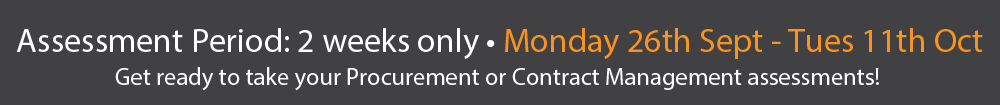
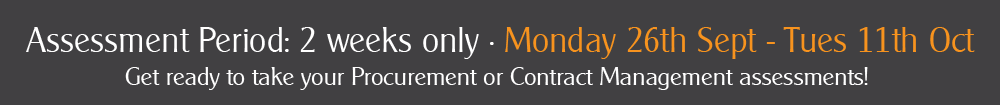
changes

Changed region(s): [[0.0, 0.2571, 0.992, 0.5714], [0.093, 0.6286, 0.899, 0.8571]]

diff --git a/SGA/Styles/style.css b/SGA/Styles/style.css
@@ -70,6 +70,7 @@ input, textarea, select {
     padding: 1px;
     border: 1px solid #9b9b9b;
     outline: none;
+
 }
 
 button, input, select, textarea {
@@ -702,7 +703,7 @@ a#more-info-mob {
         .banner-inner-pke .banner-cnt .banner-heading {
             font-family: 'cleargothic-mediumregular', Arial, Helvetica, sans-serif;
             font-size: 38px;
-            line-height: 50px;
+            line-height: 40px;
             color: #231f20;
             margin: 0 0 10px 30px;
             padding-top: 10px;
@@ -727,7 +728,7 @@ a#more-info-mob {
         }
 
 .banner-inner-pke > div:after {
- content:url(../innerimages/icon-score.png);
+ content:url(../innerimages/icon-timed-task.png);
  position: absolute;
         left: 20px;
         bottom: 20px;
@@ -909,7 +910,7 @@ ol.list1 {
         .banner-inner-ssa .banner-cnt .banner-heading {
             font-family: 'cleargothic-mediumregular', Arial, Helvetica, sans-serif;
             font-size: 38px;
-            line-height: 50px;
+            line-height: 40px;
             color: #231f20;
             margin: 0 0 10px 30px;
             padding-top: 10px;
@@ -934,7 +935,7 @@ ol.list1 {
         }
 
     .banner-inner-ssa > div:after {
-        content: url(../innerimages/icon-graf.png);
+        content: url(../innerimages/img-skills-self-assessment.gif);
         position: absolute;
         left: 20px;
         bottom: 20px;
@@ -954,7 +955,7 @@ ol.list1 {
         .banner-inner-cke .banner-cnt .banner-heading {
             font-family: 'cleargothic-mediumregular', Arial, Helvetica, sans-serif;
             font-size: 38px;
-            line-height: 50px;
+            line-height: 40px;
             color: #231f20;
             margin: 0 0 10px 30px;
             padding-top: 10px;
@@ -999,7 +1000,7 @@ ol.list1 {
         .banner-inner-caa .banner-cnt .banner-heading {
             font-family: 'cleargothic-mediumregular', Arial, Helvetica, sans-serif;
             font-size: 38px;
-            line-height: 50px;
+            line-height: 40px;
             color: #231f20;
             margin: 0 0 10px 30px;
             padding-top: 10px;
@@ -1025,7 +1026,7 @@ ol.list1 {
 
         
  .banner-inner-caa > div:after {
-        content: url(../innerimages/icon-bulb.png);
+        content: url(../innerimages/img-behavioural-assessment.gif);
         position: absolute;
         left: 20px;
         bottom: 20px;
@@ -1278,7 +1279,7 @@ ol.list1 {
         .banner-inner-cma .banner-cnt .banner-heading {
             font-family: 'cleargothic-mediumregular', Arial, Helvetica, sans-serif;
             font-size: 38px;
-            line-height: 50px;
+            line-height: 40px;
             color: #231f20;
             margin: 0 0 10px 30px;
             padding-top: 10px;

diff --git a/SGA/controls/ctrlCMKGraph.ascx.cs b/SGA/controls/ctrlCMKGraph.ascx.cs
@@ -75,35 +75,35 @@ namespace SGA.controls
                             switch (i)
                             {
                                 case 0:
-                                    this.topic1mark = System.Convert.ToDecimal(ds.Tables[0].Rows[i]["percentage"].ToString() + "%");
+                                    this.topic1mark = System.Convert.ToDecimal(ds.Tables[0].Rows[i]["percentage"].ToString());
                                     this.topic1name = ds.Tables[0].Rows[i]["topicTitle"].ToString().Replace("<br />", " ");
                                     break;
                                 case 1:
-                                    this.topic2mark = System.Convert.ToDecimal(ds.Tables[0].Rows[i]["percentage"].ToString() + "%");
+                                    this.topic2mark = System.Convert.ToDecimal(ds.Tables[0].Rows[i]["percentage"].ToString());
                                     this.topic2name = ds.Tables[0].Rows[i]["topicTitle"].ToString().Replace("<br />", " ");
                                     break;
                                 case 2:
-                                    this.topic3mark = System.Convert.ToDecimal(ds.Tables[0].Rows[i]["percentage"].ToString() + "%");
+                                    this.topic3mark = System.Convert.ToDecimal(ds.Tables[0].Rows[i]["percentage"].ToString());
                                     this.topic3name = ds.Tables[0].Rows[i]["topicTitle"].ToString().Replace("<br />", " ");
                                     break;
                                 case 3:
-                                    this.topic4mark = System.Convert.ToDecimal(ds.Tables[0].Rows[i]["percentage"].ToString() + "%");
+                                    this.topic4mark = System.Convert.ToDecimal(ds.Tables[0].Rows[i]["percentage"].ToString());
                                     this.topic4name = ds.Tables[0].Rows[i]["topicTitle"].ToString().Replace("<br />", " ");
                                     break;
                                 case 4:
-                                    this.topic5mark = System.Convert.ToDecimal(ds.Tables[0].Rows[i]["percentage"].ToString() + "%");
+                                    this.topic5mark = System.Convert.ToDecimal(ds.Tables[0].Rows[i]["percentage"].ToString());
                                     this.topic5name = ds.Tables[0].Rows[i]["topicTitle"].ToString().Replace("<br />", " ");
                                     break;
                                 case 5:
-                                    this.topic6mark = System.Convert.ToDecimal(ds.Tables[0].Rows[i]["percentage"].ToString() + "%");
+                                    this.topic6mark = System.Convert.ToDecimal(ds.Tables[0].Rows[i]["percentage"].ToString());
                                     this.topic6name = ds.Tables[0].Rows[i]["topicTitle"].ToString().Replace("<br />", " ");
                                     break;
                                 case 6:
-                                    this.topic7mark = System.Convert.ToDecimal(ds.Tables[0].Rows[i]["percentage"].ToString() + "%");
+                                    this.topic7mark = System.Convert.ToDecimal(ds.Tables[0].Rows[i]["percentage"].ToString());
                                     this.topic7name = ds.Tables[0].Rows[i]["topicTitle"].ToString().Replace("<br />", " ");
                                     break;
                                 case 7:
-                                    this.topic8mark = System.Convert.ToDecimal(ds.Tables[0].Rows[i]["percentage"].ToString() + "%");
+                                    this.topic8mark = System.Convert.ToDecimal(ds.Tables[0].Rows[i]["percentage"].ToString());
                                     this.topic8name = ds.Tables[0].Rows[i]["topicTitle"].ToString().Replace("<br />", " ");
                                     break;
                             }

diff --git a/SGA/controls/ctrlSSAGraph.ascx.cs b/SGA/controls/ctrlSSAGraph.ascx.cs
@@ -71,35 +71,35 @@ namespace SGA.controls
                             switch (i)
                             {
                                 case 0:
-                                    this.topic1mark = System.Convert.ToDecimal(ds.Tables[0].Rows[i]["percentage"].ToString() + "%");
+                                    this.topic1mark = System.Convert.ToDecimal(ds.Tables[0].Rows[i]["percentage"].ToString());
                                     this.topic1name = ds.Tables[0].Rows[i]["topicTitle"].ToString().Replace("<br />", " ");
                                     break;
                                 case 1:
-                                    this.topic2mark = System.Convert.ToDecimal(ds.Tables[0].Rows[i]["percentage"].ToString() + "%");
+                                    this.topic2mark = System.Convert.ToDecimal(ds.Tables[0].Rows[i]["percentage"].ToString());
                                     this.topic2name = ds.Tables[0].Rows[i]["topicTitle"].ToString().Replace("<br />", " ");
                                     break;
                                 case 2:
-                                    this.topic3mark = System.Convert.ToDecimal(ds.Tables[0].Rows[i]["percentage"].ToString() + "%");
+                                    this.topic3mark = System.Convert.ToDecimal(ds.Tables[0].Rows[i]["percentage"].ToString());
                                     this.topic3name = ds.Tables[0].Rows[i]["topicTitle"].ToString().Replace("<br />", " ");
                                     break;
                                 case 3:
-                                    this.topic4mark = System.Convert.ToDecimal(ds.Tables[0].Rows[i]["percentage"].ToString() + "%");
+                                    this.topic4mark = System.Convert.ToDecimal(ds.Tables[0].Rows[i]["percentage"].ToString());
                                     this.topic4name = ds.Tables[0].Rows[i]["topicTitle"].ToString().Replace("<br />", " ");
                                     break;
                                 case 4:
-                                    this.topic5mark = System.Convert.ToDecimal(ds.Tables[0].Rows[i]["percentage"].ToString() + "%");
+                                    this.topic5mark = System.Convert.ToDecimal(ds.Tables[0].Rows[i]["percentage"].ToString());
                                     this.topic5name = ds.Tables[0].Rows[i]["topicTitle"].ToString().Replace("<br />", " ");
                                     break;
                                 case 5:
-                                    this.topic6mark = System.Convert.ToDecimal(ds.Tables[0].Rows[i]["percentage"].ToString() + "%");
+                                    this.topic6mark = System.Convert.ToDecimal(ds.Tables[0].Rows[i]["percentage"].ToString());
                                     this.topic6name = ds.Tables[0].Rows[i]["topicTitle"].ToString().Replace("<br />", " ");
                                     break;
                                 case 6:
-                                    this.topic7mark = System.Convert.ToDecimal(ds.Tables[0].Rows[i]["percentage"].ToString() + "%");
+                                    this.topic7mark = System.Convert.ToDecimal(ds.Tables[0].Rows[i]["percentage"].ToString());
                                     this.topic7name = ds.Tables[0].Rows[i]["topicTitle"].ToString().Replace("<br />", " ");
                                     break;
                                 case 7:
-                                    this.topic8mark = System.Convert.ToDecimal(ds.Tables[0].Rows[i]["percentage"].ToString() + "%");
+                                    this.topic8mark = System.Convert.ToDecimal(ds.Tables[0].Rows[i]["percentage"].ToString());
                                     this.topic8name = ds.Tables[0].Rows[i]["topicTitle"].ToString().Replace("<br />", " ");
                                     break;
                             }

diff --git a/SGA/controls/ctrlCMAGraph.ascx.cs b/SGA/controls/ctrlCMAGraph.ascx.cs
@@ -71,35 +71,35 @@ namespace SGA.controls
                             switch (i)
                             {
                                 case 0:
-                                    this.topic1mark = System.Convert.ToDecimal(ds.Tables[0].Rows[i]["percentage"].ToString() + "%");
+                                    this.topic1mark = System.Convert.ToDecimal(ds.Tables[0].Rows[i]["percentage"].ToString());
                                     this.topic1name = ds.Tables[0].Rows[i]["topicTitle"].ToString().Replace("<br />", " ");
                                     break;
                                 case 1:
-                                    this.topic2mark = System.Convert.ToDecimal(ds.Tables[0].Rows[i]["percentage"].ToString() + "%");
+                                    this.topic2mark = System.Convert.ToDecimal(ds.Tables[0].Rows[i]["percentage"].ToString());
                                     this.topic2name = ds.Tables[0].Rows[i]["topicTitle"].ToString().Replace("<br />", " ");
                                     break;
                                 case 2:
-                                    this.topic3mark = System.Convert.ToDecimal(ds.Tables[0].Rows[i]["percentage"].ToString() + "%");
+                                    this.topic3mark = System.Convert.ToDecimal(ds.Tables[0].Rows[i]["percentage"].ToString());
                                     this.topic3name = ds.Tables[0].Rows[i]["topicTitle"].ToString().Replace("<br />", " ");
                                     break;
                                 case 3:
-                                    this.topic4mark = System.Convert.ToDecimal(ds.Tables[0].Rows[i]["percentage"].ToString() +"%");
+                                    this.topic4mark = System.Convert.ToDecimal(ds.Tables[0].Rows[i]["percentage"].ToString());
                                     this.topic4name = ds.Tables[0].Rows[i]["topicTitle"].ToString().Replace("<br />", " ");
                                     break;
                                 case 4:
-                                    this.topic5mark = System.Convert.ToDecimal(ds.Tables[0].Rows[i]["percentage"].ToString() + "%");
+                                    this.topic5mark = System.Convert.ToDecimal(ds.Tables[0].Rows[i]["percentage"].ToString());
                                     this.topic5name = ds.Tables[0].Rows[i]["topicTitle"].ToString().Replace("<br />", " ");
                                     break;
                                 case 5:
-                                    this.topic6mark = System.Convert.ToDecimal(ds.Tables[0].Rows[i]["percentage"].ToString() + "%");
+                                    this.topic6mark = System.Convert.ToDecimal(ds.Tables[0].Rows[i]["percentage"].ToString());
                                     this.topic6name = ds.Tables[0].Rows[i]["topicTitle"].ToString().Replace("<br />", " ");
                                     break;
                                 case 6:
-                                    this.topic7mark = System.Convert.ToDecimal(ds.Tables[0].Rows[i]["percentage"].ToString() + "%");
+                                    this.topic7mark = System.Convert.ToDecimal(ds.Tables[0].Rows[i]["percentage"].ToString());
                                     this.topic7name = ds.Tables[0].Rows[i]["topicTitle"].ToString().Replace("<br />", " ");
                                     break;
                                 case 7:
-                                    this.topic8mark = System.Convert.ToDecimal(ds.Tables[0].Rows[i]["percentage"].ToString() + "%");
+                                    this.topic8mark = System.Convert.ToDecimal(ds.Tables[0].Rows[i]["percentage"].ToString());
                                     this.topic8name = ds.Tables[0].Rows[i]["topicTitle"].ToString().Replace("<br />", " ");
                                     break;
                             }

diff --git a/SGA/controls/ctrlCMCGraph.ascx.cs b/SGA/controls/ctrlCMCGraph.ascx.cs
@@ -116,35 +116,35 @@ namespace SGA.controls
                         switch (i)
                         {
                             case 0:
-                                this.topic1mark = System.Convert.ToDecimal(ds.Tables[0].Rows[i]["percentage"].ToString() + "%");
+                                this.topic1mark = System.Convert.ToDecimal(ds.Tables[0].Rows[i]["percentage"].ToString());
                                 this.topic1name = ds.Tables[0].Rows[i]["topicname"].ToString().Replace("<br />", " ");
                                 break;
                             case 1:
-                                this.topic2mark = System.Convert.ToDecimal(ds.Tables[0].Rows[i]["percentage"].ToString() + "%");
+                                this.topic2mark = System.Convert.ToDecimal(ds.Tables[0].Rows[i]["percentage"].ToString());
                                 this.topic2name = ds.Tables[0].Rows[i]["topicname"].ToString().Replace("<br />", " ");
                                 break;
                             case 2:
-                                this.topic3mark = System.Convert.ToDecimal(ds.Tables[0].Rows[i]["percentage"].ToString() + "%");
+                                this.topic3mark = System.Convert.ToDecimal(ds.Tables[0].Rows[i]["percentage"].ToString());
                                 this.topic3name = ds.Tables[0].Rows[i]["topicname"].ToString().Replace("<br />", " ");
                                 break;
                             case 3:
-                                this.topic4mark = System.Convert.ToDecimal(ds.Tables[0].Rows[i]["percentage"].ToString() + "%");
+                                this.topic4mark = System.Convert.ToDecimal(ds.Tables[0].Rows[i]["percentage"].ToString());
                                 this.topic4name = ds.Tables[0].Rows[i]["topicname"].ToString().Replace("<br />", " ");
                                 break;
                             case 4:
-                                this.topic5mark = System.Convert.ToDecimal(ds.Tables[0].Rows[i]["percentage"].ToString() + "%");
+                                this.topic5mark = System.Convert.ToDecimal(ds.Tables[0].Rows[i]["percentage"].ToString());
                                 this.topic5name = ds.Tables[0].Rows[i]["topicname"].ToString().Replace("<br />", " ");
                                 break;
                             case 5:
-                                this.topic6mark = System.Convert.ToDecimal(ds.Tables[0].Rows[i]["percentage"].ToString() + "%");
+                                this.topic6mark = System.Convert.ToDecimal(ds.Tables[0].Rows[i]["percentage"].ToString());
                                 this.topic6name = ds.Tables[0].Rows[i]["topicname"].ToString().Replace("<br />", " ");
                                 break;
                             case 6:
-                                this.topic7mark = System.Convert.ToDecimal(ds.Tables[0].Rows[i]["percentage"].ToString() + "%");
+                                this.topic7mark = System.Convert.ToDecimal(ds.Tables[0].Rows[i]["percentage"].ToString());
                                 this.topic7name = ds.Tables[0].Rows[i]["topicname"].ToString().Replace("<br />", " ");
                                 break;
                             case 7:
-                                this.topic8mark = System.Convert.ToDecimal(ds.Tables[0].Rows[i]["percentage"].ToString() + "%");
+                                this.topic8mark = System.Convert.ToDecimal(ds.Tables[0].Rows[i]["percentage"].ToString());
                                 this.topic8name = ds.Tables[0].Rows[i]["topicname"].ToString().Replace("<br />", " ");
                                 break;
                         }

diff --git a/SGA/controls/ctrlCAAGraph.ascx.cs b/SGA/controls/ctrlCAAGraph.ascx.cs
@@ -66,23 +66,23 @@ namespace SGA.controls
                             switch (i)
                             {
                                 case 0:
-                                    this.topic1mark = System.Convert.ToDecimal(ds.Tables[0].Rows[i]["percentage"].ToString() + "%");
+                                    this.topic1mark = System.Convert.ToDecimal(ds.Tables[0].Rows[i]["percentage"].ToString());
                                     this.topic1name = ds.Tables[0].Rows[i]["topicTitle"].ToString().Replace("<br />", " ");
                                     break;
                                 case 1:
-                                    this.topic2mark = System.Convert.ToDecimal(ds.Tables[0].Rows[i]["percentage"].ToString() + "%");
+                                    this.topic2mark = System.Convert.ToDecimal(ds.Tables[0].Rows[i]["percentage"].ToString());
                                     this.topic2name = ds.Tables[0].Rows[i]["topicTitle"].ToString().Replace("<br />", " ");
                                     break;
                                 case 2:
-                                    this.topic3mark = System.Convert.ToDecimal(ds.Tables[0].Rows[i]["percentage"].ToString() + "%");
+                                    this.topic3mark = System.Convert.ToDecimal(ds.Tables[0].Rows[i]["percentage"].ToString());
                                     this.topic3name = ds.Tables[0].Rows[i]["topicTitle"].ToString().Replace("<br />", " ");
                                     break;
                                 case 3:
-                                    this.topic4mark = System.Convert.ToDecimal(ds.Tables[0].Rows[i]["percentage"].ToString() + "%");
+                                    this.topic4mark = System.Convert.ToDecimal(ds.Tables[0].Rows[i]["percentage"].ToString());
                                     this.topic4name = ds.Tables[0].Rows[i]["topicTitle"].ToString().Replace("<br />", " ");
                                     break;
                                 case 4:
-                                    this.topic5mark = System.Convert.ToDecimal(ds.Tables[0].Rows[i]["percentage"].ToString() + "%");
+                                    this.topic5mark = System.Convert.ToDecimal(ds.Tables[0].Rows[i]["percentage"].ToString());
                                     this.topic5name = ds.Tables[0].Rows[i]["topicTitle"].ToString().Replace("<br />", " ");
                                     break;
                               

diff --git a/SGA/controls/ctrlHelp.ascx.designer.cs b/SGA/controls/ctrlHelp.ascx.designer.cs
@@ -46,7 +46,7 @@ namespace SGA.controls {
         /// Auto-generated field.
         /// To modify move field declaration from designer file to code-behind file.
         /// </remarks>
-        protected global::System.Web.UI.HtmlControls.HtmlInputText company;
+        protected global::System.Web.UI.WebControls.DropDownList company;
         
         /// <summary>
         /// ddlNavigating control.
@@ -58,15 +58,6 @@ namespace SGA.controls {
         protected global::System.Web.UI.WebControls.DropDownList ddlNavigating;
         
         /// <summary>
-        /// ddlWorkshopEvent control.
-        /// </summary>
-        /// <remarks>
-        /// Auto-generated field.
-        /// To modify move field declaration from designer file to code-behind file.
-        /// </remarks>
-        protected global::System.Web.UI.WebControls.DropDownList ddlWorkshopEvent;
-        
-        /// <summary>
         /// ddlTna control.
         /// </summary>
         /// <remarks>
@@ -74,15 +65,6 @@ namespace SGA.controls {
         /// To modify move field declaration from designer file to code-behind file.
         /// </remarks>
         protected global::System.Web.UI.WebControls.DropDownList ddlTna;
-        
-        /// <summary>
-        /// ddlAccess control.
-        /// </summary>
-        /// <remarks>
-        /// Auto-generated field.
-        /// To modify move field declaration from designer file to code-behind file.
-        /// </remarks>
-        protected global::System.Web.UI.WebControls.DropDownList ddlAccess;
         
         /// <summary>
         /// comments control.

diff --git a/SGA/controls/ctrlHelp.ascx.cs b/SGA/controls/ctrlHelp.ascx.cs
@@ -38,7 +38,7 @@ namespace SGA.controls
                     this.fname.Value = ds.Tables[0].Rows[0]["firstname"].ToString();
                     this.lname.Value = ds.Tables[0].Rows[0]["lastname"].ToString();
                     this.email.Value = ds.Tables[0].Rows[0]["email"].ToString();
-                    this.company.Value = ds.Tables[0].Rows[0]["Division"].ToString(); 
+                    this.company.SelectedValue = ds.Tables[0].Rows[0]["agencyId"].ToString(); 
                     
                 }
             }

diff --git a/SGA/tna/commercial-awareness-assessment-test.aspx.cs b/SGA/tna/commercial-awareness-assessment-test.aspx.cs
@@ -71,7 +71,7 @@ namespace SGA.tna
 
         protected void Page_Load(object sender, System.EventArgs e)
         {
-            SGACommon.AddPageTitle(this.Page, "Contract Awareness Assessment  ", "");
+            SGACommon.AddPageTitle(this.Page, "Commercial Awareness Assessment  ", "");
             MasterPage mp = this.Page.Master;
             if (mp != null)
             {
